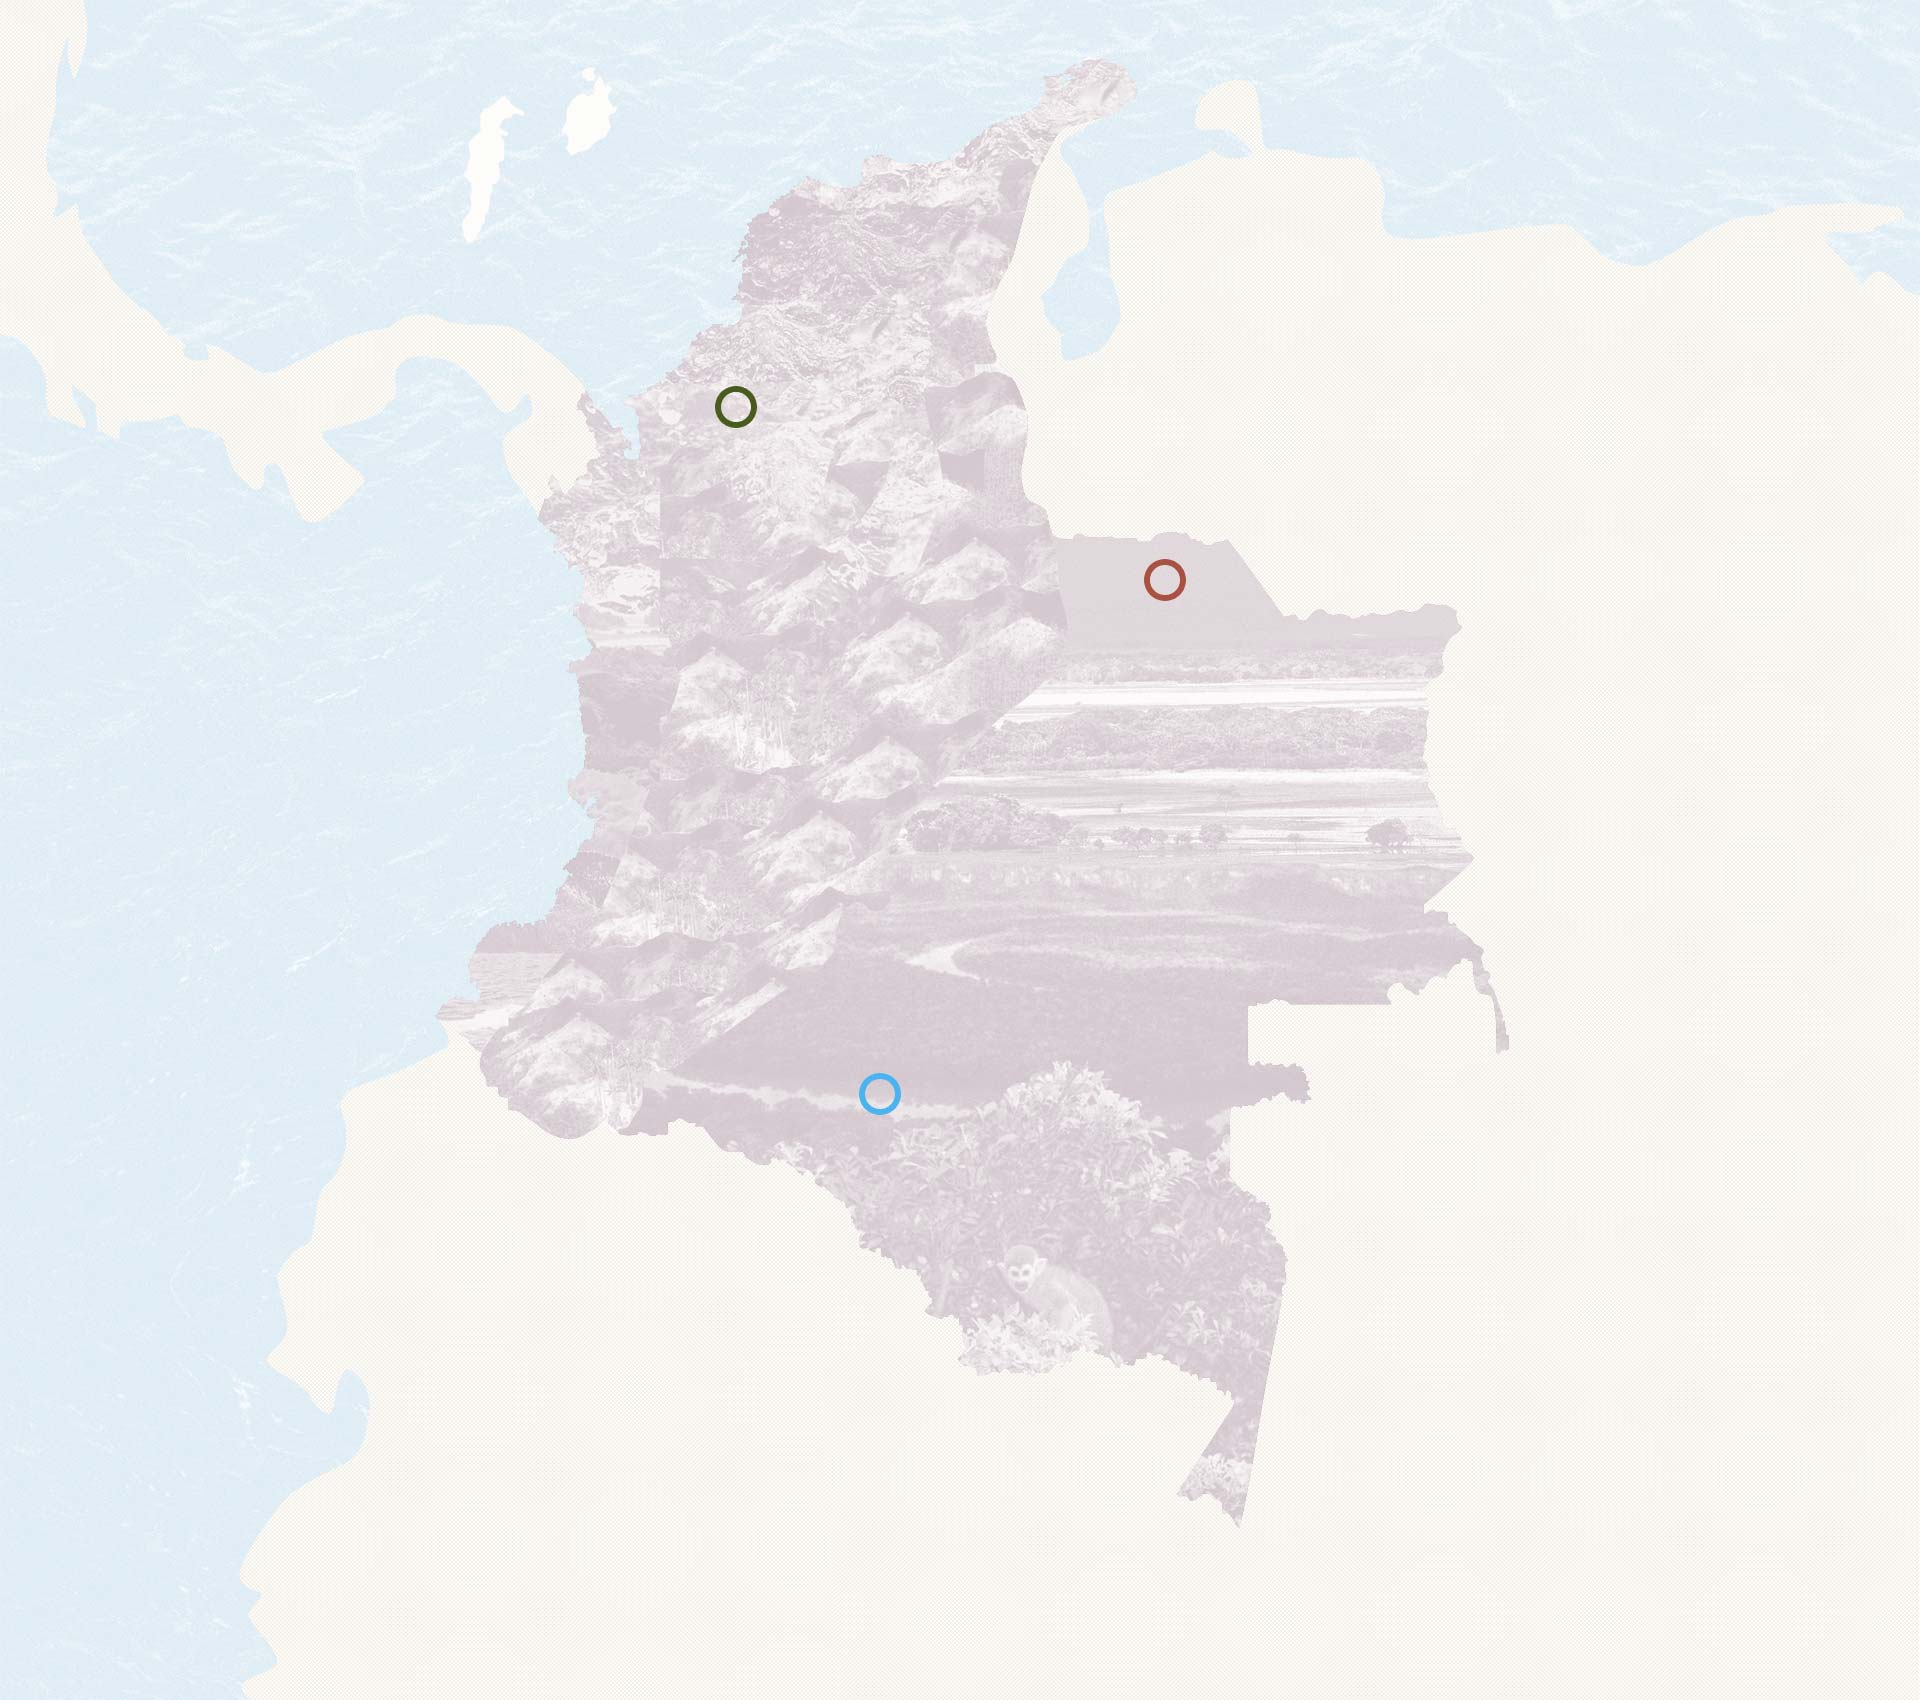
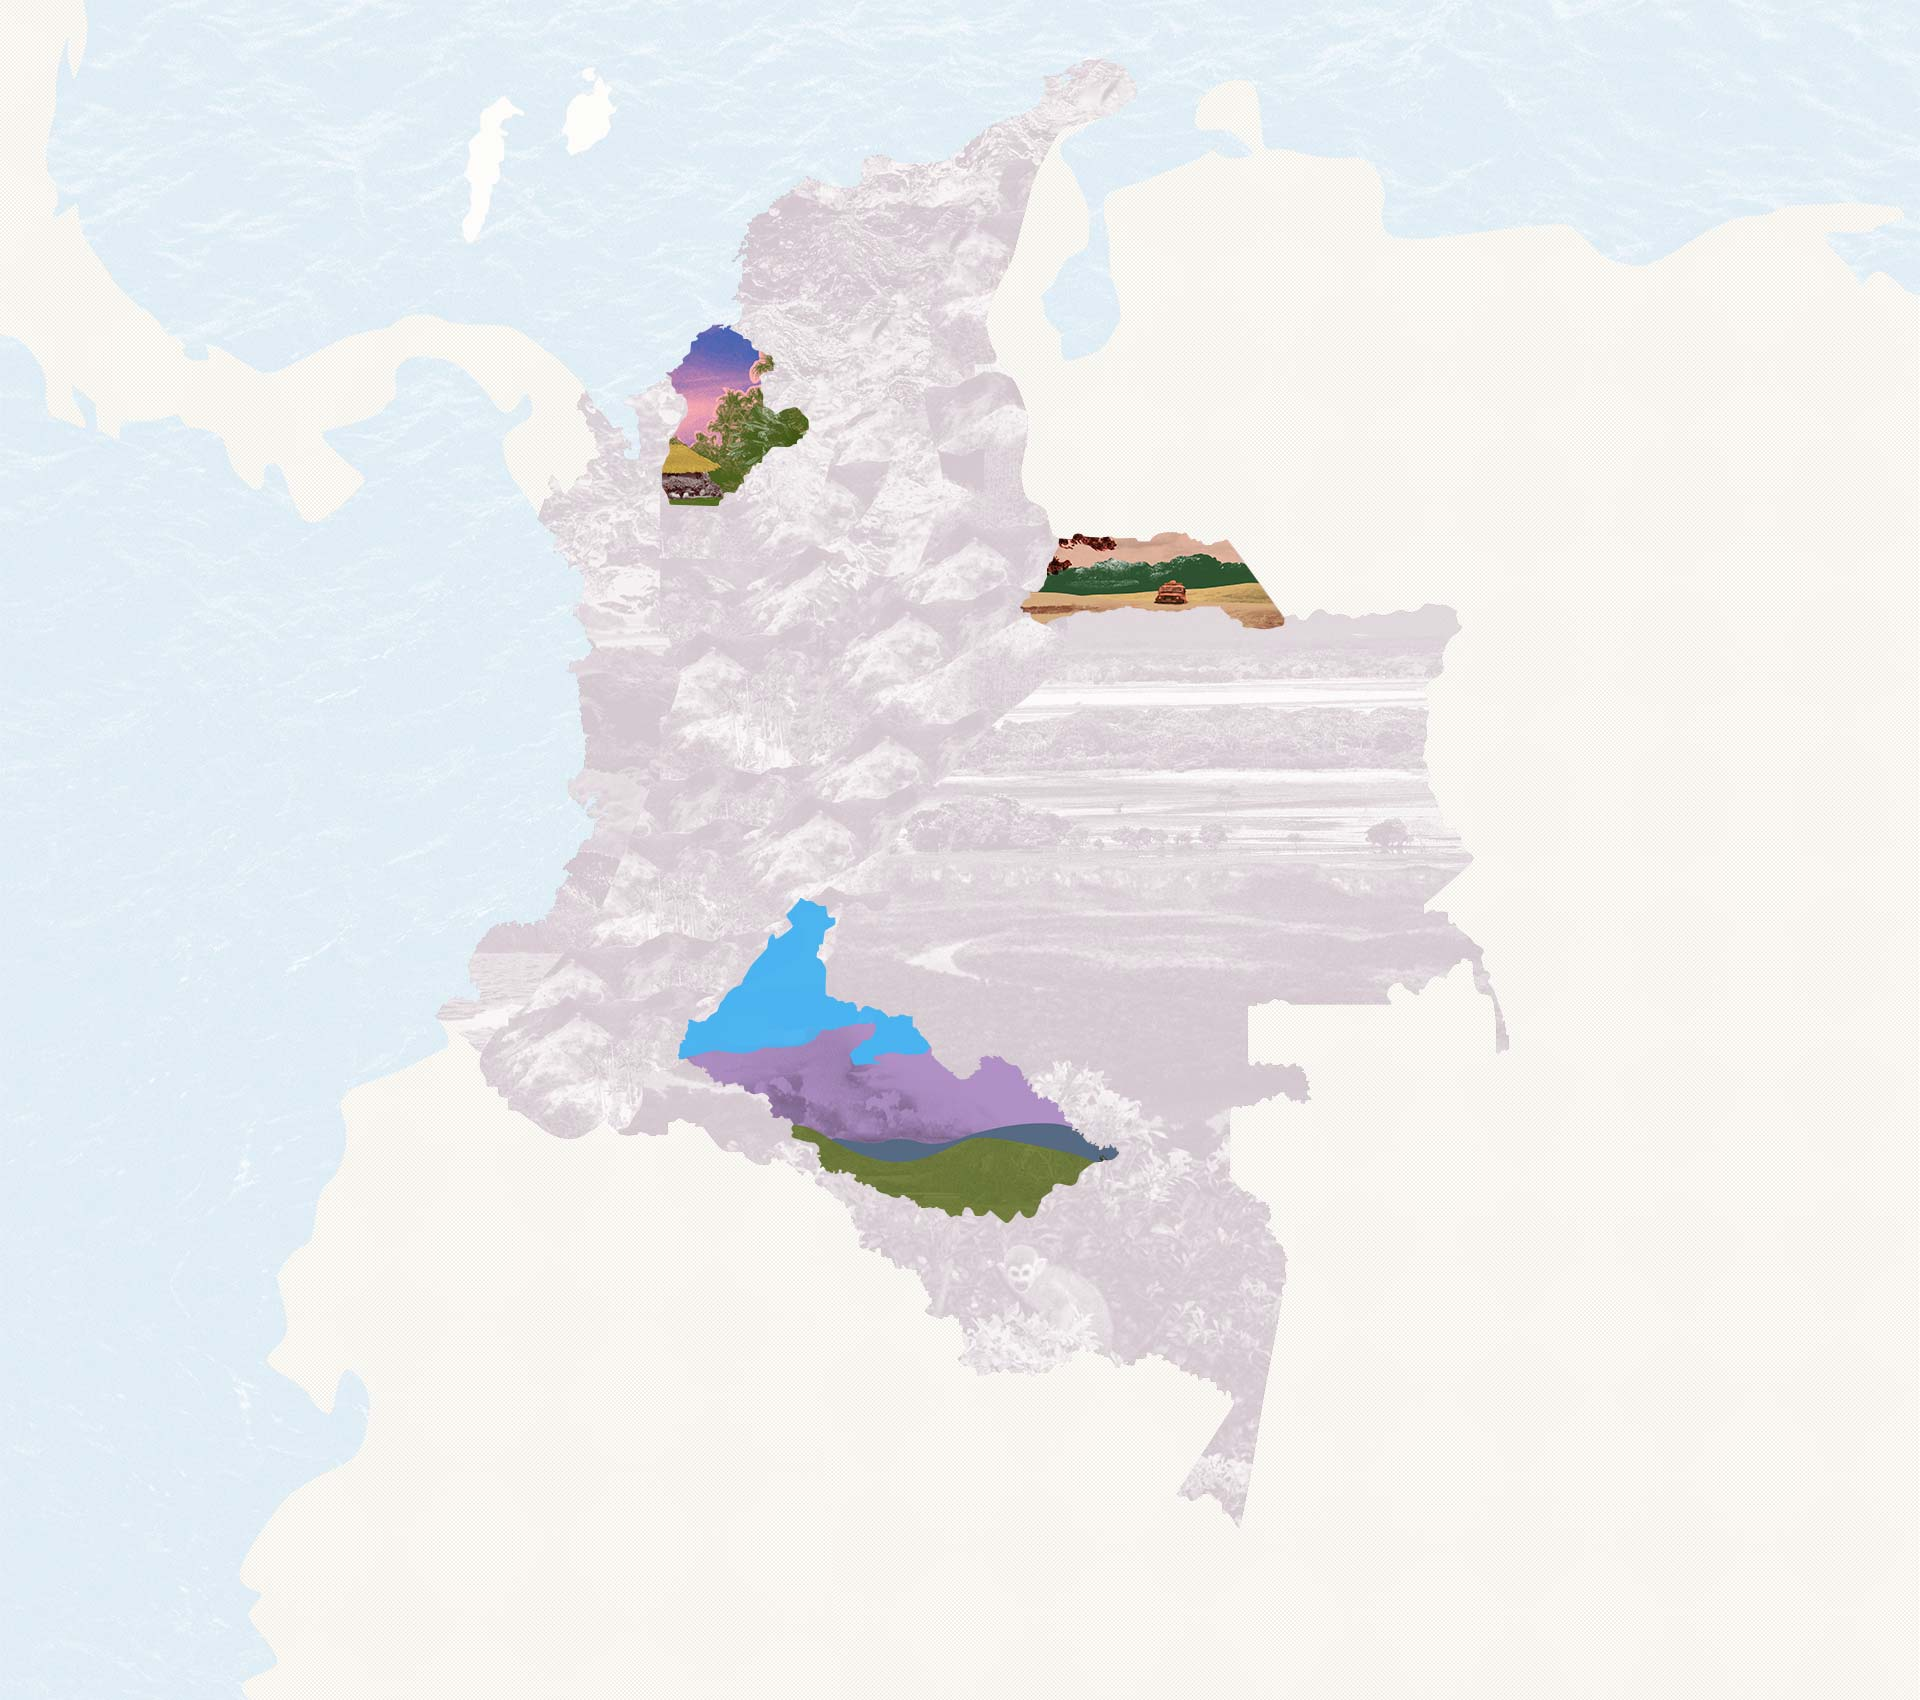
ajuste mapa fondo hover activo

Changed region(s): [[0.3438, 0.53, 0.5938, 0.7171], [0.3438, 0.1871, 0.4375, 0.3118], [0.5312, 0.3118, 0.6875, 0.3741]]

diff --git a/docs/exposicion.html b/docs/exposicion.html
@@ -70,19 +70,19 @@
         <img class="punto" src="./img/boton-mapa-transparente.gif" />
     </div>
       <div id="image_cordoba">
-        <img src="./img/cordoba.gif"/>
+        <img src="./img/cordoba_txt.gif"/>
       </div>
     <div id="punto_arauca">
         <img class="punto" src="./img/boton-mapa-transparente.gif" />
     </div>
       <div id="image_arauca">
-        <img src="./img/arauca.gif"/>
+        <img src="./img/arauca_txt.gif"/>
       </div>
     <div id="punto_caqueta">
         <img class="punto" src="./img/boton-mapa-transparente.gif" />
     </div>
       <div id="image_caqueta">
-        <img src="./img/caqueta.gif"/>
+        <img src="./img/caqueta_txt.gif"/>
       </div>
     <div id="fondomapa"></div>
 </div>
